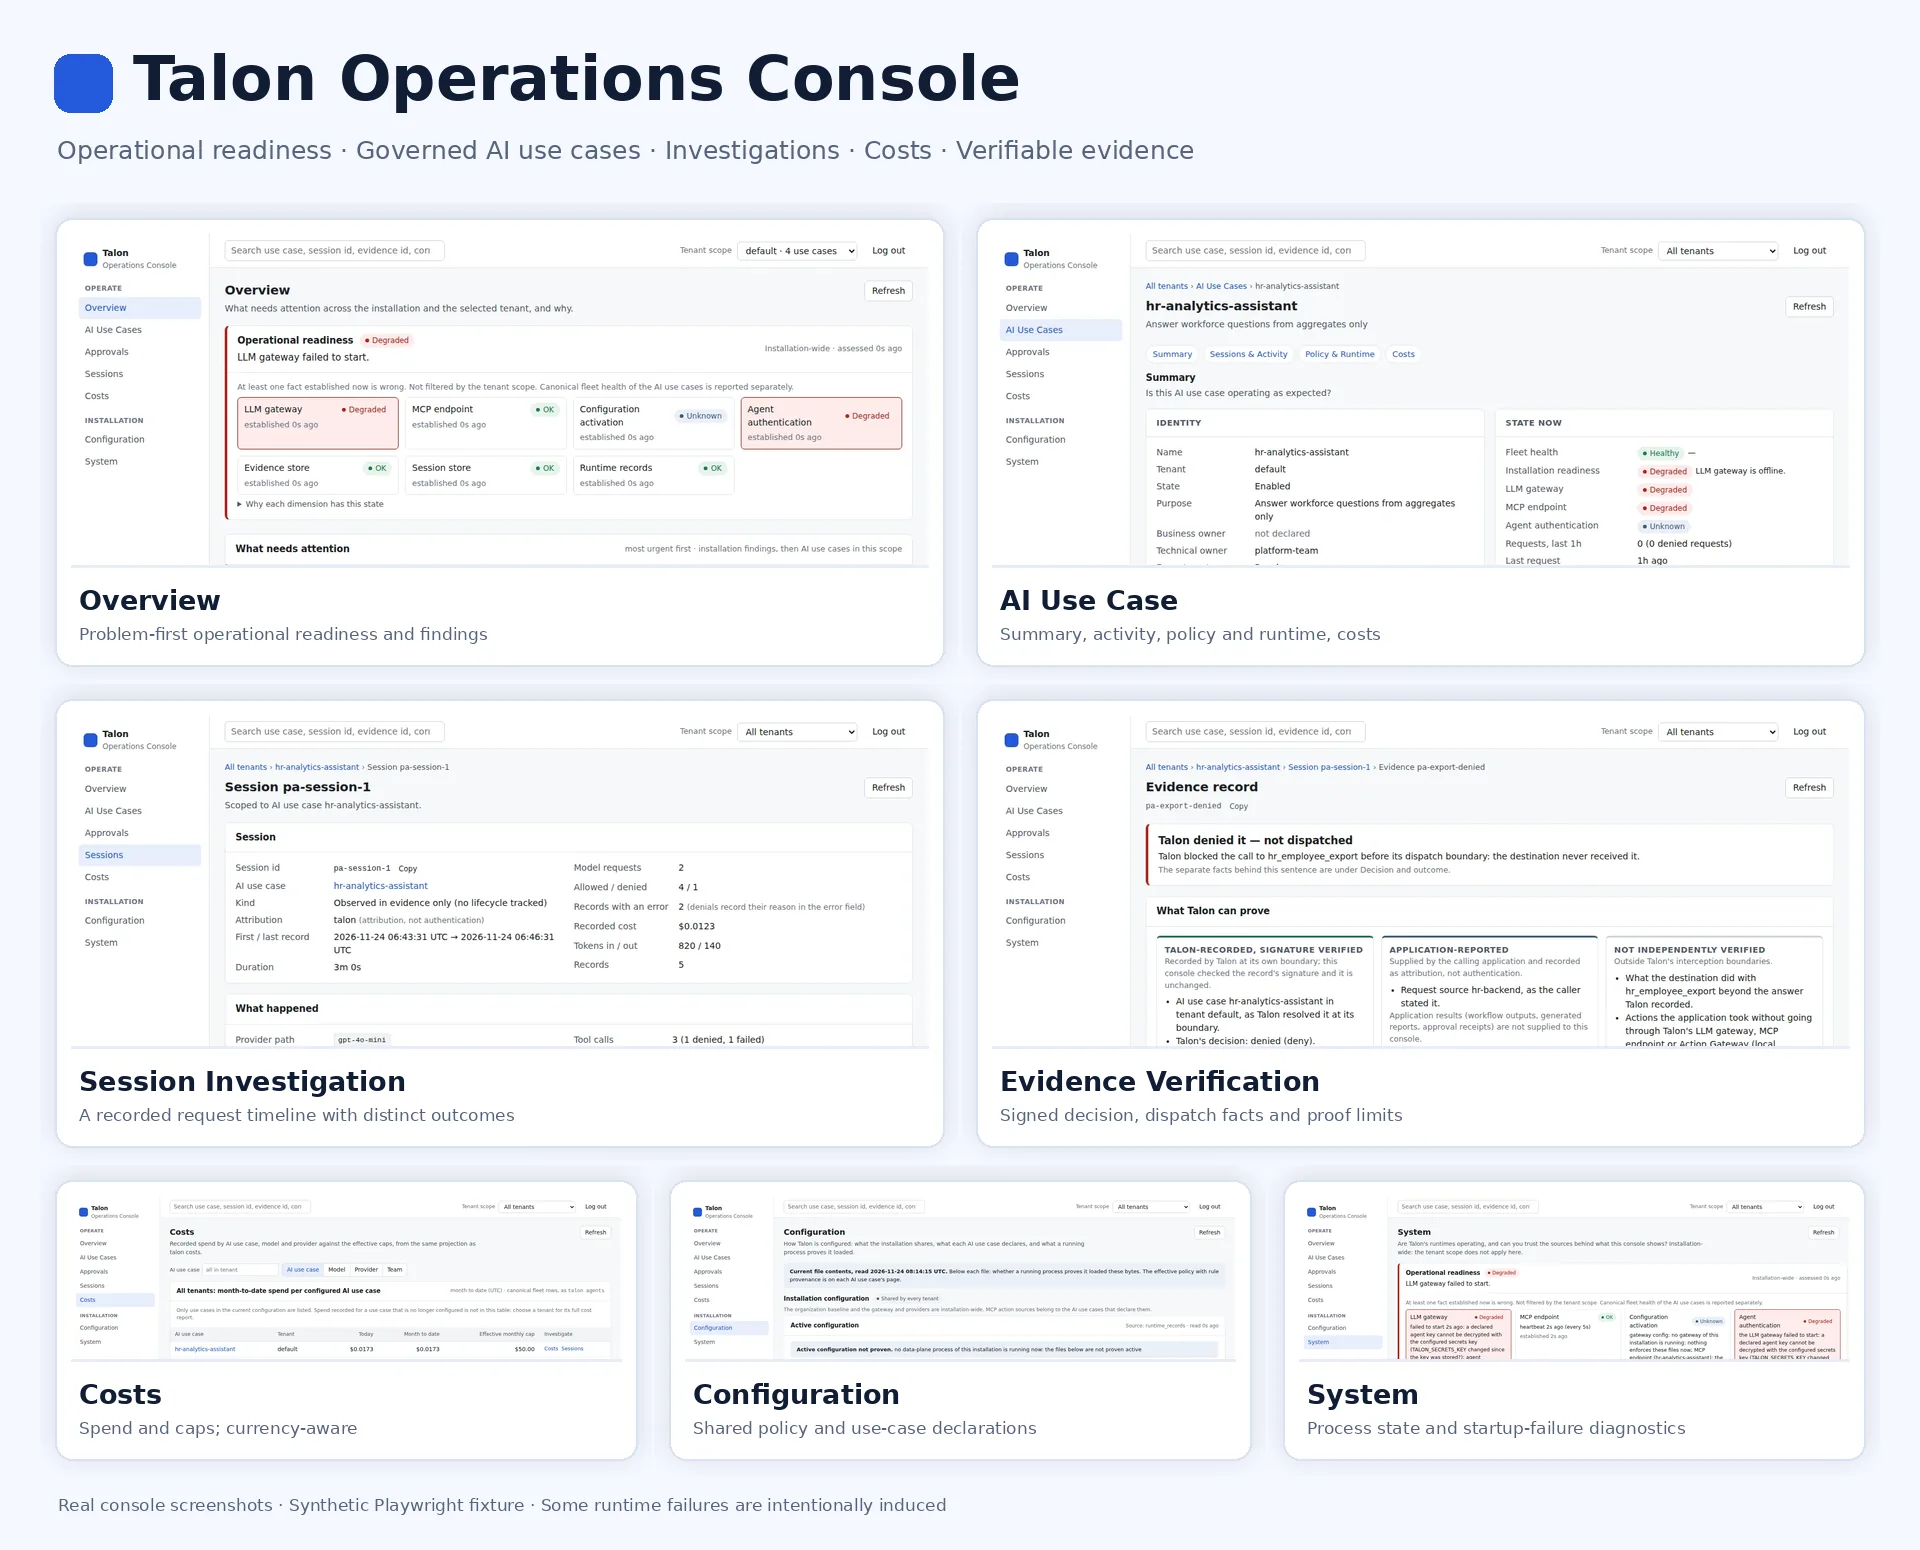
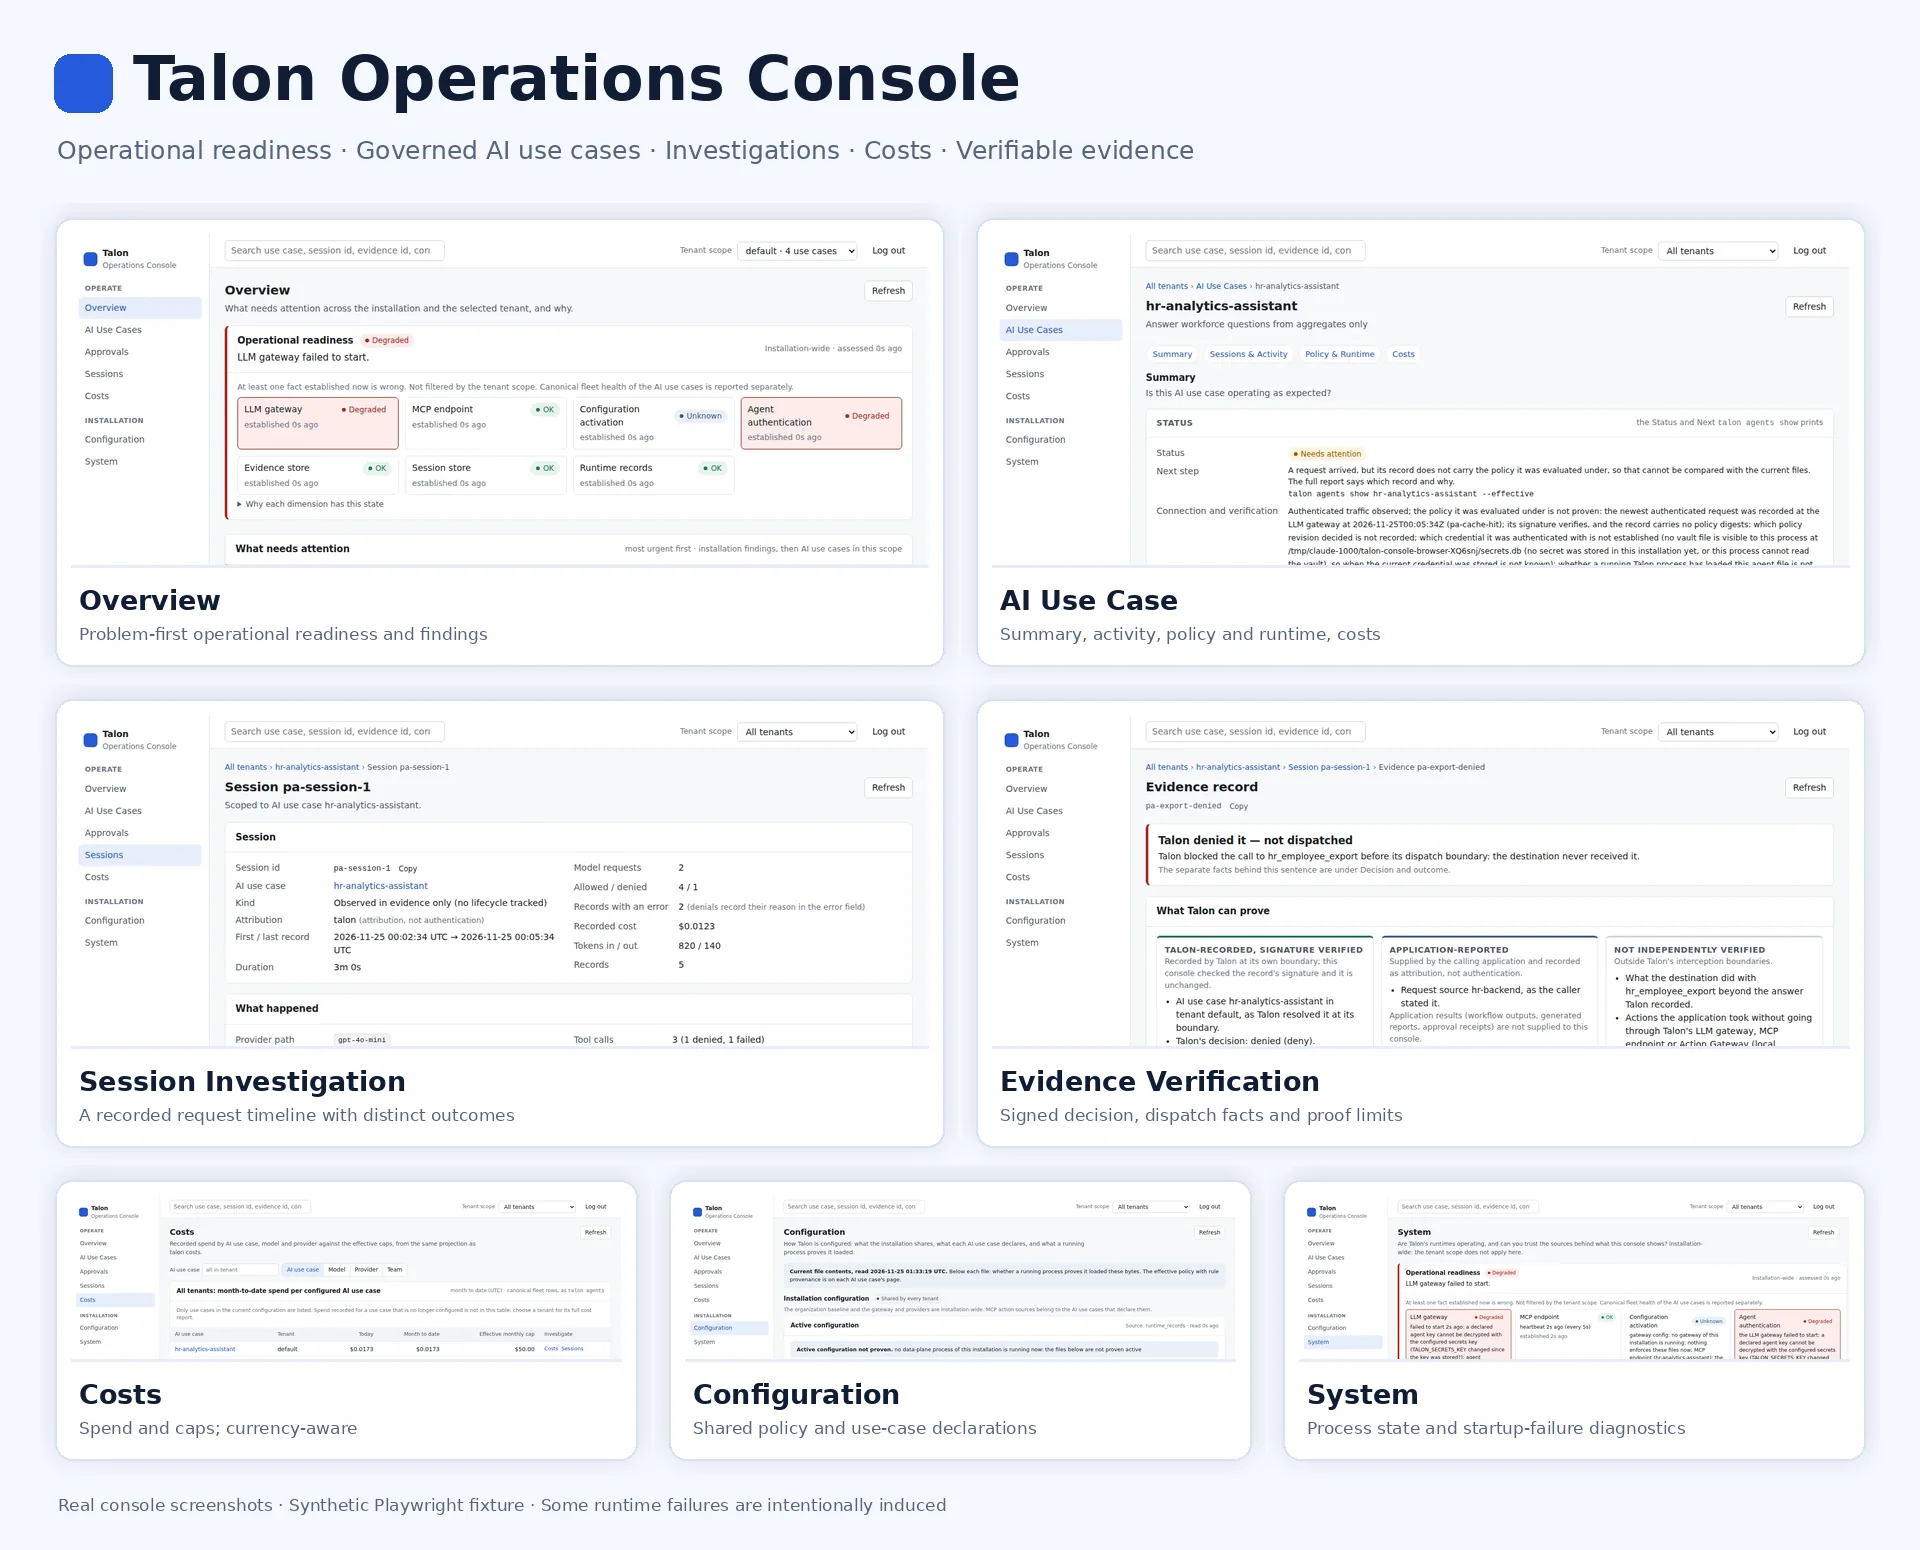
docs(console): use-case summary recaptured with its status; baseline rewritten (#575)
The use case's Summary now leads with the Status and Next step `talon
agents show` prints, so use-case-summary.webp and the showcase collage
are recaptured from the Playwright fixture with the documented flow
(CONSOLE_SCREENSHOTS, scripts/generate-console-visuals.py); the other
curated images show pages this change does not touch and are kept.
baseline.json is rewritten for the new render inputs and checks clean.

Also: the operate guide's CLI-to-console table names the status, and
the read contract says when the status section is partial and which
test pins old-request attribution.

Changed region(s): [[0.5938, 0.2787, 0.9375, 0.3716]]

diff --git a/docs/reference/console-read-contract.md b/docs/reference/console-read-contract.md
@@ -161,11 +161,11 @@ The report is read-only: files, runtime records and the store. It is not a dry r
 | `needs_attention` | Needs attention | every other next step (`send_new_request`, `check_policy`, `restart_runtime`, `use_current_key`, `store_key`, `verify_evidence`, `check_evidence`, `use_authenticated_boundary`) |
 | `not_determined` | Not determined | the report could not be built: `error` says why; `next` and `reading` are absent |
 
-Each item is `{tenant_id, name, code, headline, next {code, text, commands[]}, also, reading {code, text}, error}`, in the rows' order. `next` is the step the CLI prints under *Next*: the verification's `next`, or for `blocked` the blocking step (`next.code` `blocked`; its command is `talon costs --agent <name>` for an exhausted cap, `talon agents show <name> --effective` otherwise). `reading` is the verification's reading the status rests on. Fleet attention below blocked (a budget warning, elevated denials, fallbacks, failed sessions) does not replace the status, as in the CLI: it stays the row's `health` and `why`. The section's `availability` is `ok`; `empty` without rows; `partial` with `unavailable: ["items.status"]` when an item is `not_determined`; `unavailable` when the agent files cannot be read or the request ended, with no item. Overview's embedded `use_cases` carries no `statuses`.
+Each item is `{tenant_id, name, code, headline, next {code, text, commands[]}, also, reading {code, text}, error}`, in the rows' order. `next` is the step the CLI prints under *Next*: the verification's `next`, or for `blocked` the blocking step (`next.code` `blocked`; its command is `talon costs --agent <name>` for an exhausted cap, `talon agents show <name> --effective` otherwise). `reading` is the verification's reading the status rests on. Fleet attention below blocked (a budget warning, elevated denials, fallbacks, failed sessions) does not replace the status, as in the CLI: it stays the row's `health` and `why`. The section's `availability` is `ok`; `empty` without rows; `partial` with `unavailable: ["items.status"]` when an item's report could not be built (its `error` is set; it reads `not_determined`, or `blocked` when the fleet row alone establishes that); `unavailable` when the agent files cannot be read or the request ended, with no item. Overview's embedded `use_cases` carries no `statuses`.
 
 **Bounded reads.** The section reuses the agent scan the rows were projected from (`fleetview.Result.Scan`, `effective.SharedFromScan`) and reads the gateway config once per request. Per use case, the report reads a fixed set of indexed rows: the newest record of each qualifying invocation type and Action Gateway lifecycle event and the newest registration record (nine lookups on `idx_evidence_tenant_agent_type_ts` and `idx_evidence_action_event`), checks the signature of the records it presents (at most five), and runs one read-only query of the vault's metadata. There is no per-use-case scan of the agent files and no evidence range scan. `BenchmarkUseCasesList` (`internal/console`; 2 shared vCPUs, 20 records per use case, a running gateway that loaded every use case) measures the section at about 6 ms next to the list's existing reads of about 130 ms for 12 use cases, and about 83 ms next to 1.45 s for 102: about 0.6 ms per use case, 5 to 6 % of the list.
 
-The browser shows `headline` in the list's *Status* column (`next.text` as its title) and fleet health as *Attention* (`—` without a signal, never "Healthy" as a verdict); the use case's Summary leads with the status, the next step with its commands, `also` and the reading, and says "No finding" only for `working`. Only `working` is green; `runtime_not_confirmed` and `not_determined` read as unknown. Pinned by `TestStatusOf_HeadlineFollowsTheNextStepAndBlockedLeads` (`internal/effective`), `TestUseCaseStatus_*` (registered and not loaded, waiting, working, verified earlier but not served now, blocked over verified traffic, unreadable runtime records, a report that cannot be built), `TestConsoleParity_UseCaseStatus` (the human `talon agents show <name>` output against both routes, through not active, waiting, working and blocked), `lib/status.test.ts` and `tests/browser/09-console-status.spec.js`.
+The browser shows `headline` in the list's *Status* column (`next.text` as its title) and fleet health as *Attention* (`—` without a signal, never "Healthy" as a verdict); the use case's Summary leads with the status, the next step with its commands, `also` and the reading, and says "No finding" only for `working`. Only `working` is green; `runtime_not_confirmed` and `not_determined` read as unknown. Pinned by `TestStatusOf_HeadlineFollowsTheNextStepAndBlockedLeads` (`internal/effective`), `TestUseCaseStatus_*` (registered and not loaded, waiting, working, verified earlier but not served now, blocked over verified traffic, unreadable runtime records, a report that cannot be built, an old request attributed as the CLI attributes it), `TestConsoleParity_UseCaseStatus` (the human `talon agents show <name>` output against both routes, through not active, waiting, working and blocked), `lib/status.test.ts` and `tests/browser/09-console-status.spec.js`.
 
 ### 2.3 Tests
 

diff --git a/docs/guides/operate-ai-use-cases.md b/docs/guides/operate-ai-use-cases.md
@@ -208,7 +208,7 @@ The [Operations Console](operations-console.md) is read-only and shows the same 
 | CLI | Console |
 |---|---|
 | `talon agents` | **AI Use Cases** (and the attention list on **Overview**) |
-| `talon agents show <name>` | the use case's page, **Summary**: state, readiness, the one-line reading and the next step |
+| `talon agents show <name>` | the use case's page, **Summary**: the same Status and Next, readiness and the one-line reading; **AI Use Cases** shows the Status of every use case |
 | `talon agents show <name> --effective` | the use case's page, **Policy & Runtime** |
 | `talon session show`, `talon audit show` | **Sessions**, and each record's evidence page |
 | `talon costs` | **Costs** |
